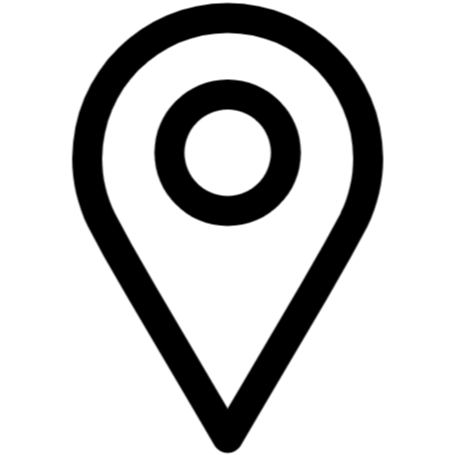
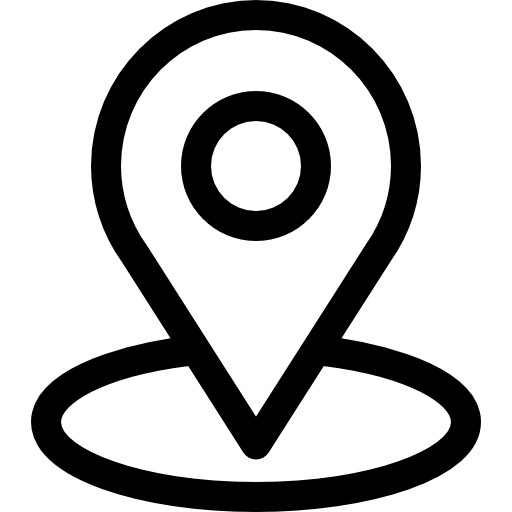
Added City and Station Name on UI

diff --git a/dispensers/station-grouping.js b/dispensers/station-grouping.js
@@ -75,7 +75,7 @@ function createStationFilterDropdown(stations, onFilterChange) {
 }
 
 // Create a station container with header
-function createStationContainer(stationCode, dispenserCount) {
+function createStationContainer(stationCode, dispenserCount, stationInfo = {}) {
     const stationSection = document.createElement('div');
     stationSection.className = 'station-section';
     stationSection.setAttribute('data-station-code', stationCode);
@@ -95,6 +95,7 @@ function createStationContainer(stationCode, dispenserCount) {
     stationHeader.style.paddingBottom = '10px';
     stationHeader.style.borderBottom = `2px solid #2E7D32`;
     
+    // Left side - Station title
     const stationTitle = document.createElement('h3');
     stationTitle.textContent = `Station: ${stationCode}`;
     stationTitle.style.margin = '0';
@@ -102,6 +103,42 @@ function createStationContainer(stationCode, dispenserCount) {
     stationTitle.style.fontSize = '22px';
     stationTitle.style.fontWeight = '650';
     
+    // Center - Location info with icon
+    const locationContainer = document.createElement('div');
+    locationContainer.style.display = 'flex';
+    locationContainer.style.alignItems = 'center';
+    locationContainer.style.justifyContent = 'center';
+    locationContainer.style.gap = '6px';
+    locationContainer.style.flex = '1';
+    
+    const locationIcon = createIconFromImage('assets/graphics/location-icon.png', 'Location', '20px');
+    
+    const locationText = document.createElement('span');
+    let cityName = stationInfo.city || '';
+    if (cityName) {
+        cityName = cityName.split(' ').map(word => 
+            word.charAt(0).toUpperCase() + word.slice(1).toLowerCase()
+        ).join(' ');
+    }
+    
+    let locationString = '';
+    if (cityName && stationInfo.station_id) {
+        locationString = `${cityName} - ${stationInfo.station_id}`;
+    } else if (cityName) {
+        locationString = cityName;
+    } else if (stationInfo.station_id) {
+        locationString = stationInfo.station_id;
+    } else {
+        locationString = 'Location not available';
+    }
+    locationText.textContent = locationString;
+    locationText.style.fontSize = '18px';
+    locationText.style.fontWeight = '500';
+    
+    locationContainer.appendChild(locationIcon);
+    locationContainer.appendChild(locationText);
+    
+    // Right side - Dispenser count
     const dispenserCountSpan = document.createElement('span');
     dispenserCountSpan.textContent = `${dispenserCount} Dispenser${dispenserCount !== 1 ? 's' : ''}`;
     dispenserCountSpan.style.backgroundColor = '#e9ecef';
@@ -111,6 +148,7 @@ function createStationContainer(stationCode, dispenserCount) {
     dispenserCountSpan.style.color = '#495057';
     
     stationHeader.appendChild(stationTitle);
+    stationHeader.appendChild(locationContainer);
     stationHeader.appendChild(dispenserCountSpan);
     
     // Horizontal scroll container for dispensers
@@ -205,18 +243,50 @@ function createStationContainer(stationCode, dispenserCount) {
     stationSection.appendChild(stationHeader);
     stationSection.appendChild(scrollWrapper);
     
-    // Hide scroll buttons if content doesn't overflow
+    // Function to check overflow and show/hide buttons
     const checkOverflow = () => {
-        const isOverflowing = scrollContainer.scrollWidth > scrollContainer.clientWidth;
-        leftScrollBtn.style.display = isOverflowing ? 'flex' : 'none';
-        rightScrollBtn.style.display = isOverflowing ? 'flex' : 'none';
+        // Small delay to ensure DOM is rendered
+        setTimeout(() => {
+            if (scrollContainer && scrollContainer.parentElement) {
+                const isOverflowing = scrollContainer.scrollWidth > scrollContainer.clientWidth;
+                leftScrollBtn.style.display = isOverflowing ? 'flex' : 'none';
+                rightScrollBtn.style.display = isOverflowing ? 'flex' : 'none';
+            }
+        }, 50);
     };
     
-    // Check overflow after content is added
-    setTimeout(checkOverflow, 100);
+    // Use MutationObserver to watch for content changes in stationGrid
+    const observer = new MutationObserver(() => {
+        checkOverflow();
+    });
+    
+    // Start observing the stationGrid for child additions/changes
+    observer.observe(stationGrid, {
+        childList: true,
+        subtree: true,
+        attributes: true,
+        attributeFilter: ['style', 'class']
+    });
+    
+    // Also observe the scrollContainer for size changes
+    const resizeObserver = new ResizeObserver(() => {
+        checkOverflow();
+    });
+    resizeObserver.observe(scrollContainer);
+    resizeObserver.observe(stationSection);
+    
+    // Initial check after a delay to ensure all content is loaded
+    setTimeout(checkOverflow, 200);
+    setTimeout(checkOverflow, 500);
+    setTimeout(checkOverflow, 1000);
     
     // Also check on window resize
-    window.addEventListener('resize', checkOverflow);
+    window.addEventListener('resize', () => {
+        setTimeout(checkOverflow, 100);
+    });
+    
+    // Store observer references for cleanup if needed
+    stationSection._observers = { observer, resizeObserver };
     
     return { stationSection, stationGrid, scrollContainer, checkOverflow };
 }
@@ -261,8 +331,30 @@ async function renderStationWiseDispensers(dispensers, gridContainer, createCard
     
     for (const stationCode of sortedStations) {
         const stationData = groupedDispensers[stationCode];
-        const { stationSection, stationGrid, scrollContainer, checkOverflow } = createStationContainer(stationCode, stationData.dispensers.length);
         
+        // Get station info from the first dispenser (or fetch from API)
+        const firstDispenser = stationData.dispensers[0];
+        let stationInfo = {};
+        
+        try {
+            const stationResponse = await fetch(`${API_BASE_URL}/stations/${stationCode}`);
+            if (stationResponse.ok) {
+                const stationData = await stationResponse.json();
+                stationInfo = {
+                    city: stationData.station?.city || '',
+                    station_id: stationData.station?.station_id || ''
+                };
+            }
+        } catch (error) {
+            console.error('Error fetching station info:', error);
+        }
+        
+        const { stationSection, stationGrid, scrollContainer, checkOverflow } = createStationContainer(
+            stationCode, 
+            stationData.dispensers.length,
+            stationInfo
+        );
+    
         // Store grid reference for updates
         window.stationGrids[stationCode] = stationGrid;
         window.stationCheckOverflow[stationCode] = checkOverflow;
